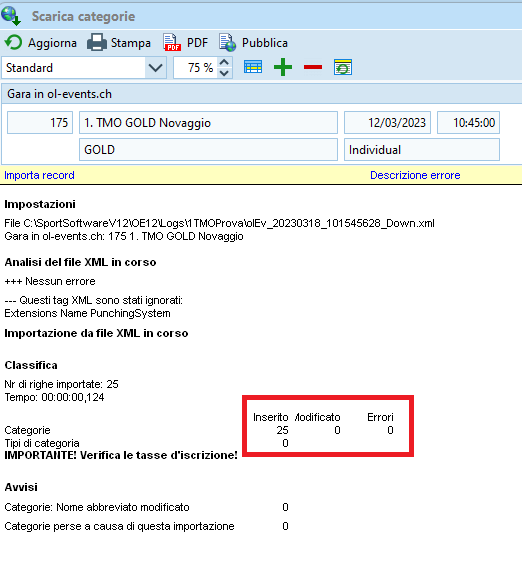
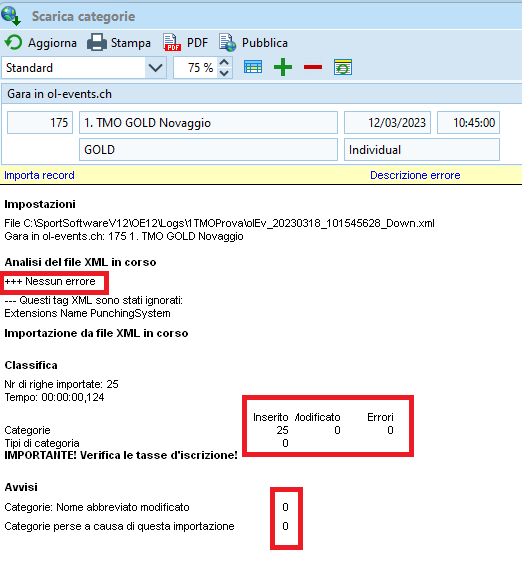
aggiunta di controlli supplementari

Changed region(s): [[0.0, 0.4655, 0.2146, 0.5276], [0.4904, 0.8379, 0.5824, 0.9621]]

diff --git a/docs/software/oe12/creazione_gara.md b/docs/software/oe12/creazione_gara.md
@@ -152,7 +152,8 @@ Segui le istruzioni a dipendenza della procedura scelta:
         1. Conferma di scaricare le categorie  
         ![OL-Events conferma l'import delle categorie](inc/olevents_categorie_conferma.png)  
           
-        1. Verifica il numero di categorie e che non ci siano errori.  
+        1. Verifica il numero di categorie e che non ci siano né errori né avvisi.  
+        **Nota**: è normale che alcuni campi del file XML vengano ignorati.    
         ![OL-Events verifica import categorie](inc/olevents_categorie_verifica.png)  
           
         1. Chiudi la finestra di verifica.
